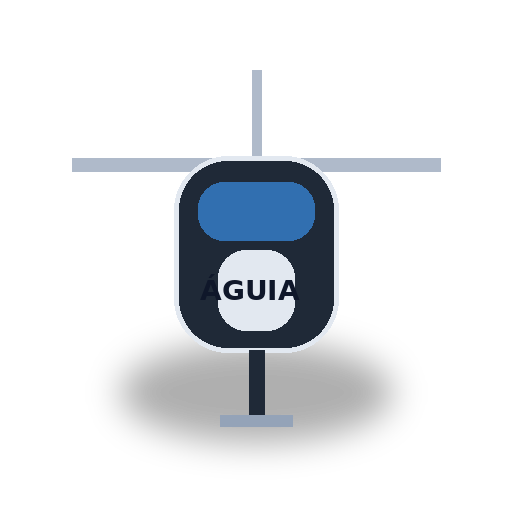
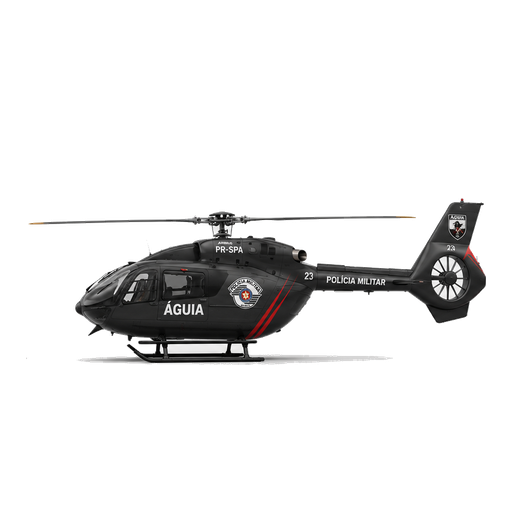
Central 190 v2.7.0 fase 33 defesa civil e aguia integrados

Changed region(s): [[0.0625, 0.125, 0.9688, 0.9062]]

diff --git a/js/assets.js b/js/assets.js
@@ -1,8 +1,8 @@
 window.C190_Assets = (() => {
   "use strict";
-  const VERSION = "2.6.0";
+  const VERSION = "2.7.0";
   const PHASE = "31";
-  const BUILD = "CENTRAL190-2600-F32-VEICULOS-PNG-SP-20260623-110500-BRT";
+  const BUILD = "CENTRAL190-2700-F33-DEFESA-CIVIL-AGUIA-20260623-121500-BRT";
   const required = [
     "assets/badges/central190-brand.svg",
     "assets/backgrounds/bg-central-room.webp",

diff --git a/js/save-manager.js b/js/save-manager.js
@@ -43,8 +43,8 @@ window.C190_Save = (() => {
     "c190_save",
   ];
   const SCHEMA = 29;
-  const VERSION = "2.6.0";
-  const BUILD = "CENTRAL190-2600-F32-VEICULOS-PNG-SP-20260623-110500-BRT";
+  const VERSION = "2.7.0";
+  const BUILD = "CENTRAL190-2700-F33-DEFESA-CIVIL-AGUIA-20260623-121500-BRT";
   const DEFAULT_CENTER = {
     lat: -23.55052,
     lng: -46.63331,

diff --git a/sw.js b/sw.js
@@ -1,4 +1,4 @@
-const CACHE = "central190-v2.6.0-f32-veiculos-png-sp";
+const CACHE = "central190-v2.7.0-f33-defesa-civil-aguia";
 const ASSETS = [
   "./",
   "./index.html",

diff --git a/docs/DEFESA_CIVIL_AGUIA_F33.md b/docs/DEFESA_CIVIL_AGUIA_F33.md
@@ -1,0 +1,10 @@
+# Fase 33 — Defesa Civil e Águia
+
+Build: CENTRAL190-2700-F33-DEFESA-CIVIL-AGUIA-20260623-121500-BRT
+
+## Assets substituídos
+
+- `assets/units/sp-civil-defense-cinematic.png`
+- `assets/units/sp-police-helicopter-cinematic.png`
+
+Os dois arquivos foram recortados a partir da imagem enviada pelo usuário com Defesa Civil e helicóptero Águia, convertidos para PNG com fundo transparente e mantidos nos mesmos caminhos já usados pelo jogo. Assim, os cards de recurso, mapa real e mapa tático passam a mostrar automaticamente os novos veículos sem alterar a lógica de despacho.

diff --git a/AUDIT_F33.md b/AUDIT_F33.md
@@ -1,0 +1,8 @@
+# AUDIT F33 — v2.7.0
+
+Build: CENTRAL190-2700-F33-DEFESA-CIVIL-AGUIA-20260623-121500-BRT
+
+- `sp-civil-defense-cinematic.png` substituído com sucesso.
+- `sp-police-helicopter-cinematic.png` substituído com sucesso.
+- Mantidos os caminhos de asset; nenhuma alteração de código funcional necessária.
+- Save schema preservado em 29.

diff --git a/BUILD-REPORT.md b/BUILD-REPORT.md
@@ -1,6 +1,6 @@
 # Build Report — Central 190 v2.4.0 Fase 30
 
-Build: `CENTRAL190-2600-F32-VEICULOS-PNG-SP-20260623-110500-BRT`
+Build: `CENTRAL190-2400-F30-RC-PUBLICA-COMERCIAL-20260622-123500-BRT`
 Data: 22/06/2026 12:35:00 BRT
 Save schema: 28
 
@@ -10,11 +10,6 @@ RC pública/comercial gerada com tutorial guiado, checklist de publicação, cac
 ## Próximo passo
 Homologação manual no domínio final: celular Android, iPhone/iOS quando disponível, tablet e desktop.
 
-
-## v2.6.0 — Fase 32 — Veículos PNG de São Paulo
-
-- Pack de veículos recortados do layout enviado pelo usuário, integrado ao jogo.
-- Cards, mapa real e mapa tático com veículos corretos.
 
 ## v2.5.0 — Fase 31 — Hotfix fila contínua e ícones SP
 - Corrigida a continuidade de ligações após despacho: a próxima chamada é antecipada quando a ocorrência entra no rádio e não há fila em espera.

diff --git a/CHECKLIST.md b/CHECKLIST.md
@@ -14,13 +14,6 @@
 - [ ] Homologar em desktop no navegador principal.
 
 
-## v2.6.0 — Fase 32 — Veículos PNG de São Paulo
-
-- [x] 6 veículos recortados em PNG e salvos em `assets/units/`.
-- [x] Despacho atualizado com ícone específico por unidade.
-- [x] Mapa real e tático atualizados com classes específicas.
-- [x] Cache PWA atualizado.
-
 ## v2.5.0 — Fase 31 — Hotfix fila contínua e ícones SP
 - Corrigida a continuidade de ligações após despacho: a próxima chamada é antecipada quando a ocorrência entra no rádio e não há fila em espera.
 - Adicionada faixa de aviso da próxima ligação/ligação aguardando na Fila Viva.

diff --git a/CHANGELOG.md b/CHANGELOG.md
@@ -111,12 +111,6 @@ Build: `CENTRAL190-1700-F23-TRAINING-ACADEMY-20260619-162400-BRT`
 - Preservados campanha, casos realistas, rádio, viaturas animadas, balanceamento e fundos fotográficos.
 
 
-## v2.6.0 — Fase 32 — Veículos PNG de São Paulo
-
-- Inseridos assets PNG derivados da imagem enviada pelo usuário.
-- Viatura PM comum, ROCAM, Força Tática SUV, SAMU, Bombeiros Auto Bomba e Bombeiros Resgate agora possuem ícones próprios.
-- Mapa real, mapa tático e cards de recurso passaram a respeitar o veículo específico de cada unidade.
-
 ## v2.5.0 — Fase 31 — Hotfix fila contínua e ícones SP
 - Corrigida a continuidade de ligações após despacho: a próxima chamada é antecipada quando a ocorrência entra no rádio e não há fila em espera.
 - Adicionada faixa de aviso da próxima ligação/ligação aguardando na Fila Viva.

diff --git a/README.md b/README.md
@@ -23,12 +23,6 @@ Simulador fictício de central de emergência com atendimento por chat, coleta d
 Save local no navegador. Sem telemetria, sem conta obrigatória e sem upload de dados para nuvem.
 
 
-## v2.6.0 — Fase 32 — Veículos PNG de São Paulo
-
-- Recorte manual dos 6 veículos enviados pelo usuário e conversão para PNG com fundo transparente.
-- Novos assets reais: PM sedan, ROCAM, Força Tática SUV, SAMU 192, Auto Bomba 193 e Bombeiros Resgate.
-- Cards de despacho, mapa real e mapa tático agora mostram cada veículo correto por unidade.
-
 ## v2.5.0 — Fase 31 — Hotfix fila contínua e ícones SP
 - Corrigida a continuidade de ligações após despacho: a próxima chamada é antecipada quando a ocorrência entra no rádio e não há fila em espera.
 - Adicionada faixa de aviso da próxima ligação/ligação aguardando na Fila Viva.

diff --git a/TEST-REPORT.md b/TEST-REPORT.md
@@ -22,12 +22,6 @@
 Celular físico, tablet e PC no domínio final, com atenção a rolagem, menu, PWA e mapa real.
 
 
-## v2.6.0 — Fase 32 — Veículos PNG de São Paulo
-
-- Assets PNG presentes e carregando: OK.
-- CSS com mapeamento por unidade (`pm-forca`, `bm-resgate`): OK.
-- `resource-dispatch.js` apontando para novos arquivos: OK.
-
 ## v2.5.0 — Fase 31 — Hotfix fila contínua e ícones SP
 - Corrigida a continuidade de ligações após despacho: a próxima chamada é antecipada quando a ocorrência entra no rádio e não há fila em espera.
 - Adicionada faixa de aviso da próxima ligação/ligação aguardando na Fila Viva.